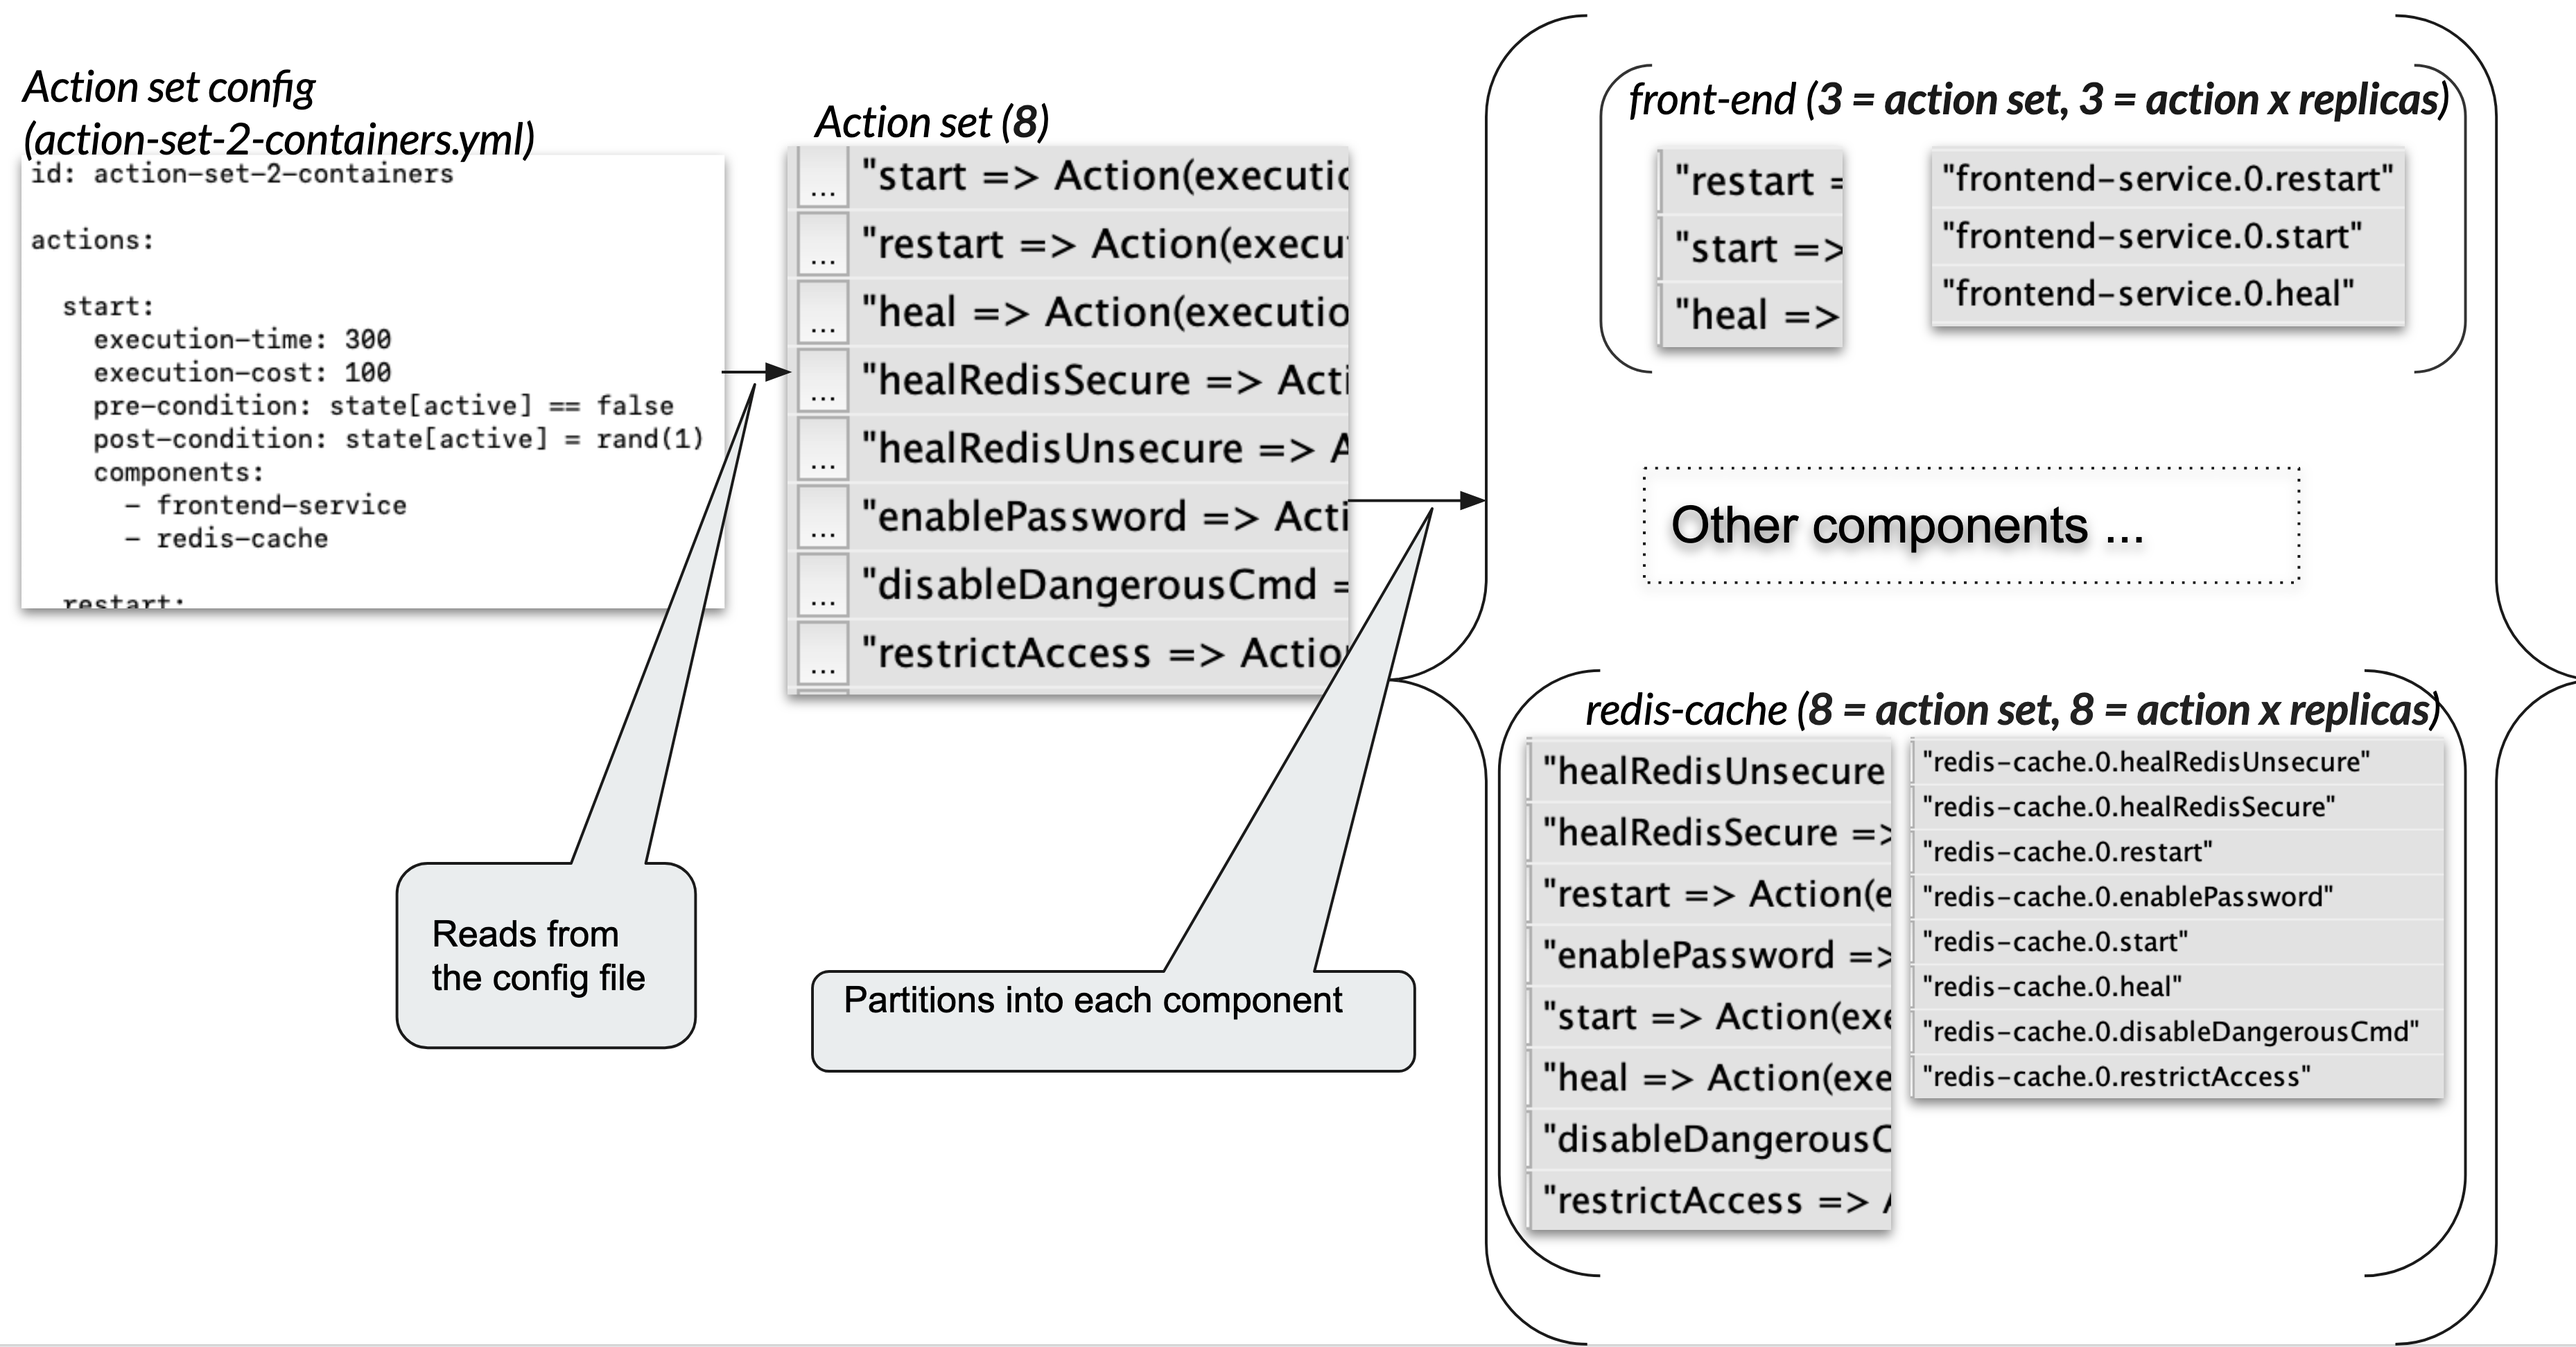
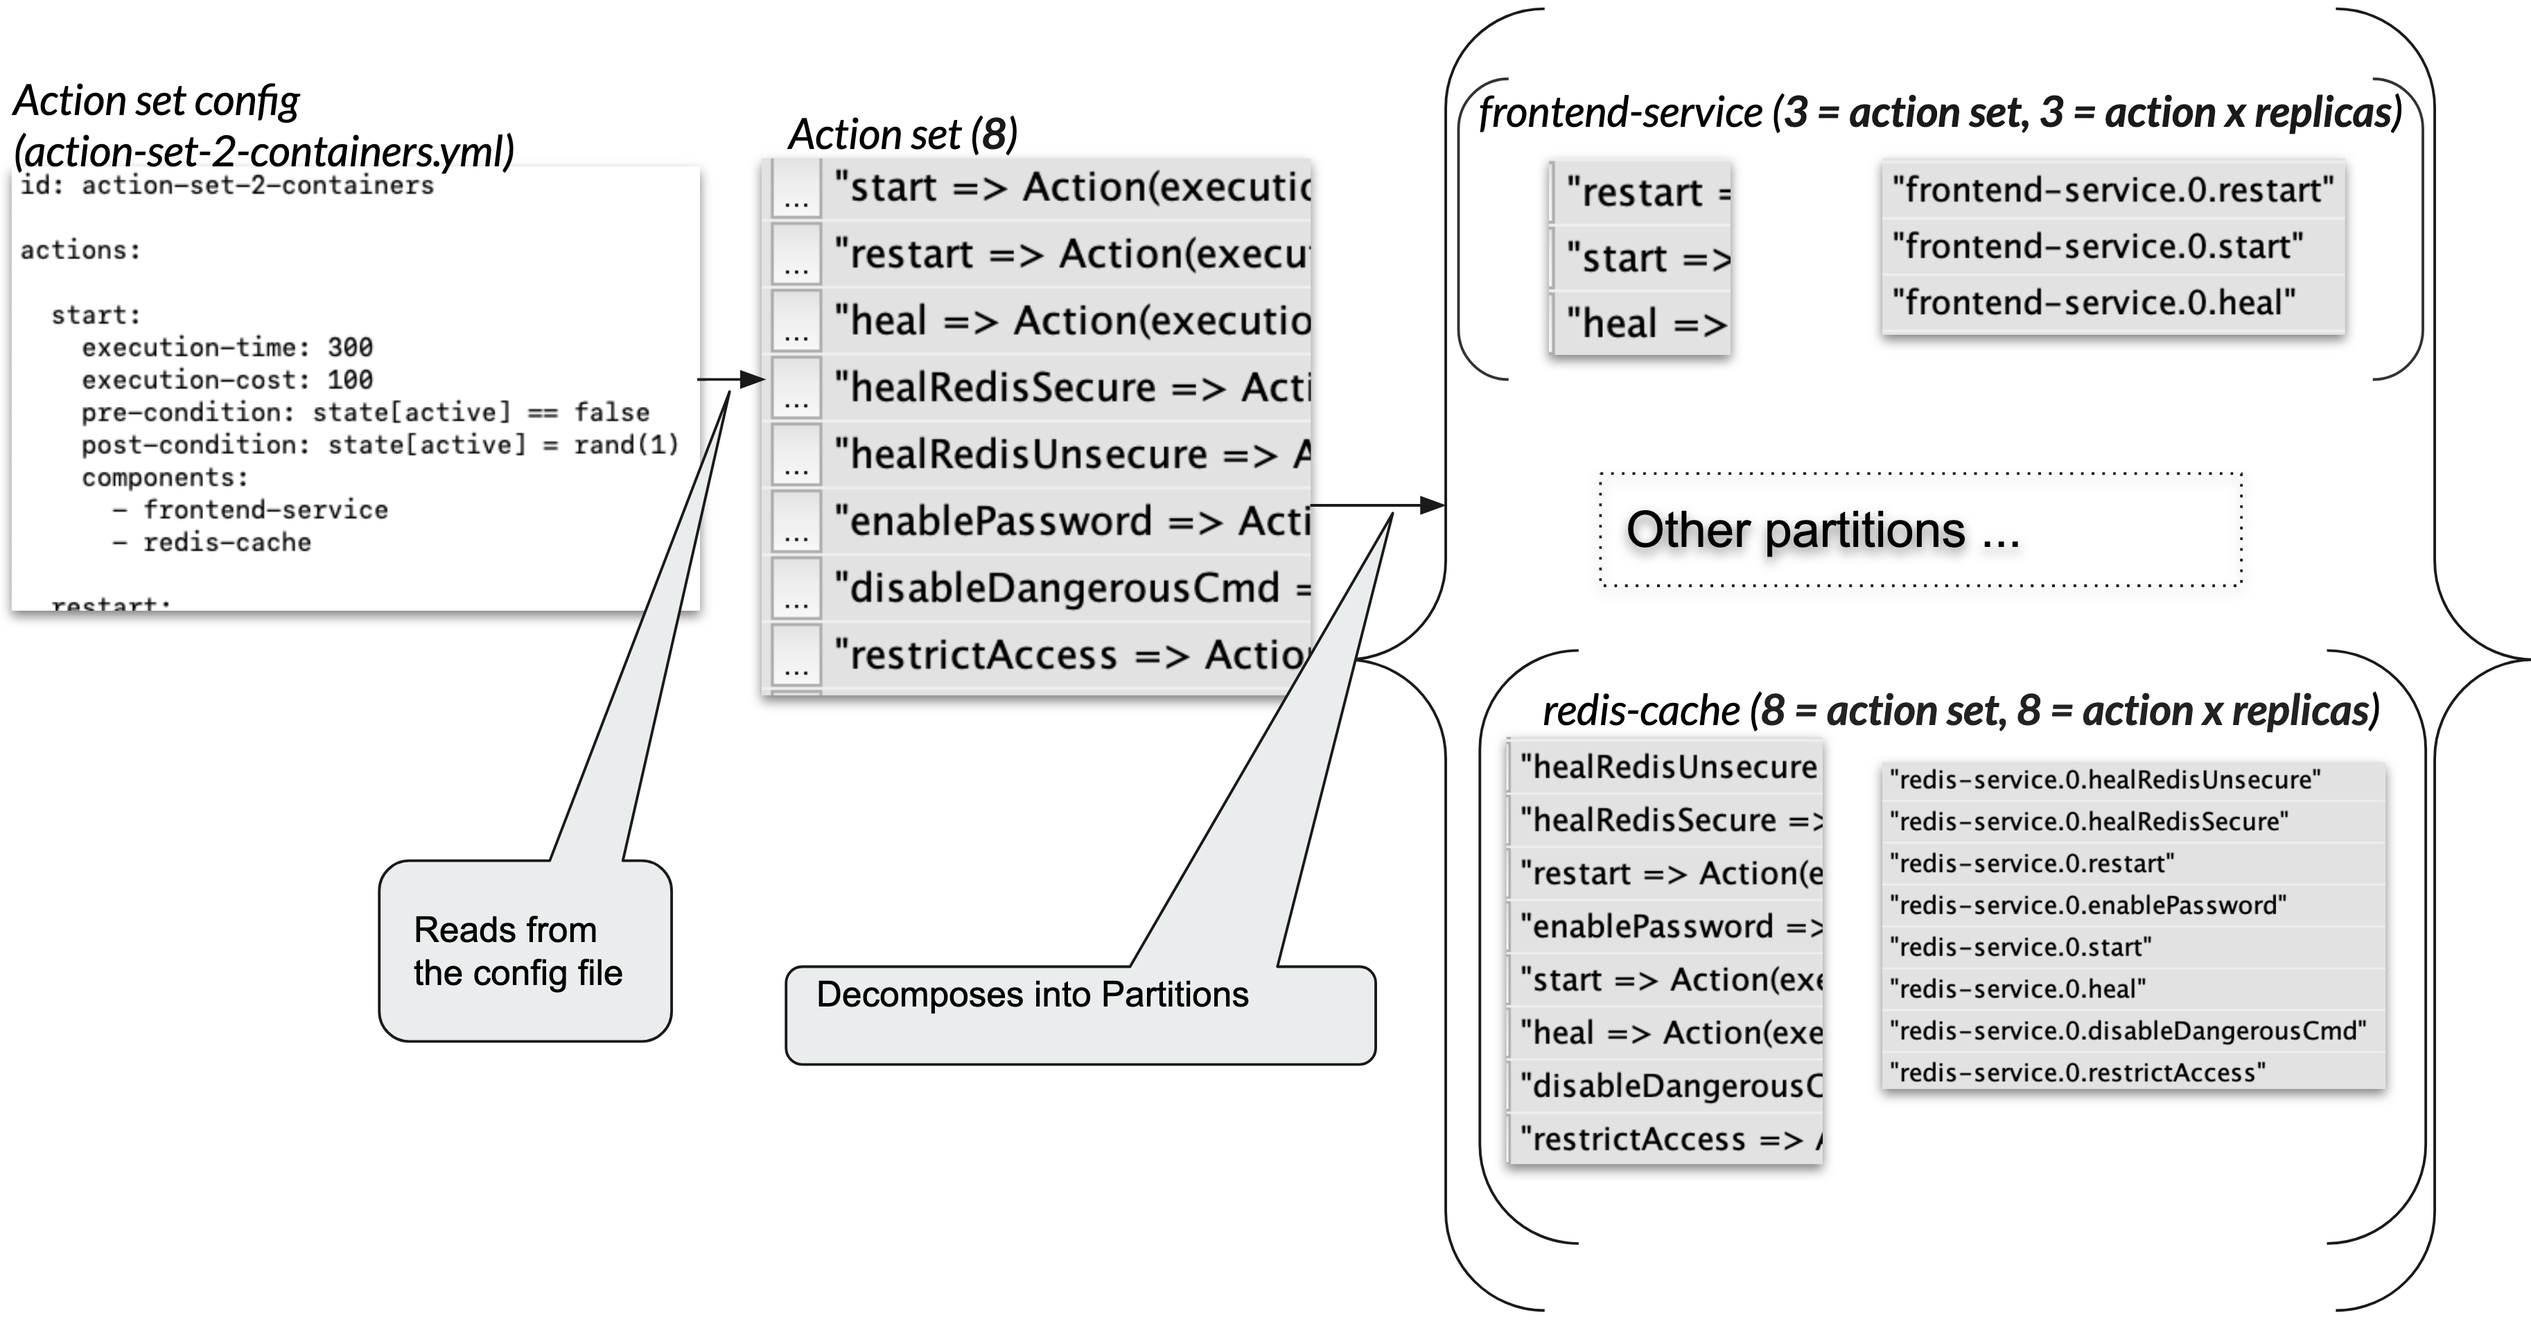
Referred Redis cache as Redis service. Replaced state attributes with state variables.

diff --git a/src/main/java/com/secureai/partition/main/PartitionDQNMain.java b/src/main/java/com/secureai/partition/main/PartitionDQNMain.java
@@ -100,7 +100,7 @@ public class PartitionDQNMain {
             }
             Logger.getAnonymousLogger().info("[Evaluate] Average reward: " + rewards / EPISODES);   
             
-            break; //after the first partition is trained; for testing
+//            break; //after the first partition is trained; for testing
         } //train one nn for each partition
     } //end of main 
 }

diff --git a/README.md b/README.md
@@ -33,23 +33,20 @@ Reference: The Online Boutique (OB) application from [here.](https://github.com/
 ![Architecture](https://raw.githubusercontent.com/GoogleCloudPlatform/microservices-demo/master/docs/img/architecture-diagram.png?raw=true "Architecture")
 
 ## UML diagrams
-Find below are the crictical part of the diagrams. They show how the application is creating system partitions.The design uses the creational, structural, and behaviorial design patterns to do so.
+Find below are the critical part of the diagrams. They show how the software is creating system partitions.The design uses the creational, structural, and behaviorial design patterns to do so.
 
 ![Partition system - main](uml/uml-classdiagram.png?raw=true "Partition system - main")
 
-Please note for convience, the sequence diagram is broken into two parts for readability.
+![Sequence Diagram - part1](uml/uml-sequencediagram.png?raw=true "Sequence Diagram")
 
-![Sequence Diagram - part1](uml/uml-sequence-diagram-part1.png?raw=true "Sequence Diagram - part1")
-
-![Sequence Diagram - part2](uml/uml-sequence-diagram-part2.png?raw=true "Sequence Diagram - part2")
 
 ## System partitions
 
-The below diagram shows the number of componets. There is one component for each of the images and for each of the software used. Each component corresponds to one partition of the system. Please note there could be many replicas of the compoents in each partition.
+The system model consists of information on all the microservices used in the system.  A service provides the software implementation in a container image. We define a component as an executable unit of a service, that holds the image, and a partition as a running unit of all the containers of a particular component image. Each partition contains at least one container of the respective component in a \textit{secure} state of the system.  Every service has a corresponding component with its separate partition, as shown in the diagram below:
 
 ![Partition system - systemcomponents](uml/system-components.png?raw=true "Partition system - systemcomponents")
 
-The below diagram shows how the monolothic System's state attributes are broken down into multiple set of attributes one for each partitions.
+The below diagram shows how the monolothic System's state variables are broken down into multiple set of variables one for each partitions.
 
 ![Partition system - statepartition](uml/system-partitions-stateattribs.png?raw=true "Partition system - statepartition")
 
